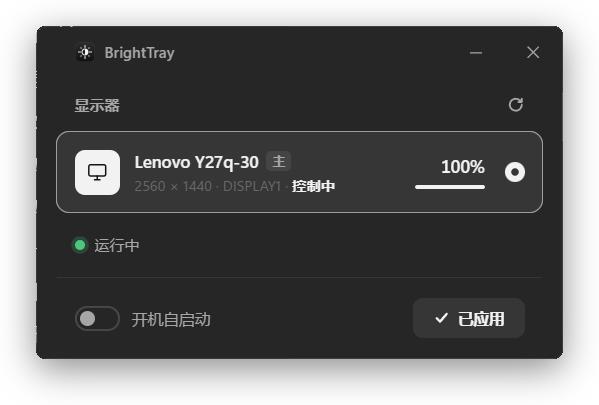
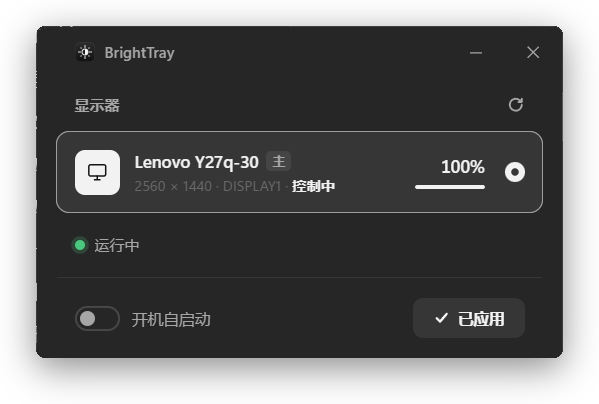
App: Chinese/English UI; English screenshots for the README
- i18n: the page, tray menu and error messages follow the Windows display
  language (Chinese for any Chinese locale, English otherwise);
  BRIGHTTRAY_LANG=zh|en overrides it
- docs/screenshots/en: English app capture, a language-neutral crop of the
  Quick Settings sliders (the tile labels are the OS's own language), and
  the matching app -> Quick Settings composite
- re-cut the Chinese app capture without the one stray row of desktop
  below the window

diff --git a/app/ui/index.html b/app/ui/index.html
@@ -1,5 +1,5 @@
 <!doctype html>
-<html lang="zh-CN">
+<html lang="{{LANG}}">
 <head>
 <meta charset="utf-8">
 <meta name="viewport" content="width=device-width, initial-scale=1">
@@ -201,18 +201,18 @@
 <body>
   <div class="titlebar">
     <div class="brand" id="drag">{{ICON}}<span>BrightTray</span></div>
-    <button class="win-btn" id="btn-min" title="最小化">
+    <button class="win-btn" id="btn-min" data-title="minimize">
       <svg viewBox="0 0 10 10"><path d="M0 5.5h10"/></svg>
     </button>
-    <button class="win-btn close" id="btn-close" title="关闭">
+    <button class="win-btn close" id="btn-close" data-title="close">
       <svg viewBox="0 0 10 10"><path d="M.5.5l9 9M9.5.5l-9 9"/></svg>
     </button>
   </div>
 
   <div id="app">
     <div class="head">
-      <h2>显示器</h2>
-      <button class="icon-btn" id="btn-refresh" title="刷新">
+      <h2 data-t="displays"></h2>
+      <button class="icon-btn" id="btn-refresh" data-title="refresh">
         <svg viewBox="0 0 16 16"><path d="M13.5 8a5.5 5.5 0 1 1-1.6-3.9M13.5 2.5v3h-3"/></svg>
       </button>
     </div>
@@ -228,15 +228,38 @@
     <div class="footer">
       <label class="opt">
         <input type="checkbox" class="toggle" id="opt-autostart">
-        <span>开机自启动</span>
+        <span data-t="autostart"></span>
       </label>
-      <button class="primary" id="btn-apply" disabled>应用</button>
+      <button class="primary" id="btn-apply" disabled></button>
     </div>
   </div>
 
 <script>
 (() => {
   const $ = (id) => document.getElementById(id);
+
+  const STRINGS = {
+    zh: {
+      displays: "显示器", autostart: "开机自启动", apply: "应用", applied: "已应用",
+      refresh: "刷新", minimize: "最小化", close: "关闭",
+      primary: "主", active: "控制中", noDdc: "不支持 DDC/CI", empty: "没有检测到显示器",
+      noDdcNotice: "该显示器未响应 DDC/CI，不会做任何修改。可在显示器菜单中开启 DDC/CI 后刷新。",
+      idle: "未启用", running: "运行中", waiting: "等待 ShellHost…", hooking: "正在挂接快速设置…",
+      restarting: "正在重启 ShellHost…", missing: "找不到 brighttray_hook.dll", starting: "启动中…",
+    },
+    en: {
+      displays: "Displays", autostart: "Start with Windows", apply: "Apply", applied: "Applied",
+      refresh: "Refresh", minimize: "Minimize", close: "Close",
+      primary: "Main", active: "Active", noDdc: "No DDC/CI", empty: "No displays found",
+      noDdcNotice: "This display doesn't respond to DDC/CI, so nothing will be changed. Turn on DDC/CI in the monitor's menu, then refresh.",
+      idle: "Not active", running: "Running", waiting: "Waiting for ShellHost…", hooking: "Hooking Quick Settings…",
+      restarting: "Restarting ShellHost…", missing: "brighttray_hook.dll not found", starting: "Starting…",
+    },
+  };
+  const T = STRINGS[document.documentElement.lang] || STRINGS.en;
+  document.querySelectorAll("[data-t]").forEach((el) => { el.textContent = T[el.dataset.t]; });
+  document.querySelectorAll("[data-title]").forEach((el) => { el.title = T[el.dataset.title]; });
+  $("btn-apply").textContent = T.apply;
   const send = (msg) => window.ipc.postMessage(msg);
   const esc = (s) => String(s).replace(/[&<>"']/g, (c) => ({ "&": "&amp;", "<": "&lt;", ">": "&gt;", '"': "&quot;", "'": "&#39;" }[c]));
 
@@ -252,15 +275,15 @@
   let lastHeight = 0;
 
   function statusOf(s) {
-    if (!s.applied) return { cls: "", text: "未启用" };
+    if (!s.applied) return { cls: "", text: T.idle };
     switch (s.hook.kind) {
-      case "hooked": return { cls: "on", text: "运行中" };
-      case "waiting": return { cls: "pending", text: "等待 ShellHost…" };
-      case "starting": return { cls: "pending", text: "正在挂接快速设置…" };
-      case "restarting": return { cls: "pending", text: "正在重启 ShellHost…" };
-      case "missing": return { cls: "err", text: "找不到 brighttray_hook.dll" };
+      case "hooked": return { cls: "on", text: T.running };
+      case "waiting": return { cls: "pending", text: T.waiting };
+      case "starting": return { cls: "pending", text: T.hooking };
+      case "restarting": return { cls: "pending", text: T.restarting };
+      case "missing": return { cls: "err", text: T.missing };
       case "error": return { cls: "err", text: s.hook.message };
-      default: return { cls: "pending", text: "启动中…" };
+      default: return { cls: "pending", text: T.starting };
     }
   }
 
@@ -290,18 +313,18 @@
     if (state.scanning && state.monitors.length === 0) {
       list.innerHTML = '<div class="skeleton"></div>';
     } else if (state.monitors.length === 0) {
-      list.innerHTML = '<div class="empty">没有检测到显示器</div>';
+      list.innerHTML = `<div class="empty">${T.empty}</div>`;
     } else {
       list.innerHTML = state.monitors.map((m) => {
         const cls = ["card", m.key === selected ? "selected" : "", m.ddc ? "" : "unsupported"].join(" ");
-        const live = m.key === state.applied ? ' · <span class="live">控制中</span>' : "";
+        const live = m.key === state.applied ? ` · <span class="live">${T.active}</span>` : "";
         const right = m.ddc
           ? `<div class="level"><div class="pct">${m.percent}%</div><div class="bar"><i style="width:${m.percent}%"></i></div></div>`
-          : '<span class="nosupport">不支持 DDC/CI</span>';
+          : `<span class="nosupport">${T.noDdc}</span>`;
         return `<button class="${cls}" data-key="${esc(m.key)}">
             <div class="glyph">${MONITOR}</div>
             <div class="info">
-              <div class="name"><span class="t">${esc(m.name)}</span>${m.primary ? '<span class="tag">主</span>' : ""}</div>
+              <div class="name"><span class="t">${esc(m.name)}</span>${m.primary ? `<span class="tag">${T.primary}</span>` : ""}</div>
               <div class="meta">${m.width} × ${m.height} · ${esc(m.device)}${live}</div>
             </div>
             ${right}
@@ -315,7 +338,7 @@
 
     let notice = null;
     if (state.error) notice = { kind: "err", text: state.error };
-    else if (mon && !mon.ddc) notice = { kind: "warn", text: "该显示器未响应 DDC/CI，不会做任何修改。可在显示器菜单中开启 DDC/CI 后刷新。" };
+    else if (mon && !mon.ddc) notice = { kind: "warn", text: T.noDdcNotice };
     const n = $("notice");
     n.className = "notice" + (notice ? " show k-" + notice.kind : "");
     if (notice) {
@@ -328,7 +351,7 @@
     const apply = $("btn-apply");
     apply.disabled = !mon || !mon.ddc || isApplied;
     apply.classList.toggle("done", isApplied);
-    apply.innerHTML = isApplied ? CHECK + "已应用" : "应用";
+    apply.innerHTML = isApplied ? CHECK + T.applied : T.apply;
 
     const st = statusOf(state);
     $("status").className = "status " + st.cls;

diff --git a/app/src/main.rs b/app/src/main.rs
@@ -5,6 +5,7 @@
 
 mod autostart;
 mod config;
+mod i18n;
 mod instance;
 
 use brighttray::ddc;
@@ -23,6 +24,7 @@ use tray_icon::{
 use wry::{WebView, WebViewBuilder};
 
 use config::Config;
+use i18n::tr;
 
 const ICON_RESOURCE: u16 = 1;
 /// Logical window width; the height follows the page content (see the `size` IPC message).
@@ -186,13 +188,25 @@ impl App {
     fn apply(&mut self, key: &str) {
         self.error = None;
         let Some(monitor) = self.monitors.iter().find(|m| m.key == key).cloned() else {
-            self.error = Some("这台显示器已断开，请刷新后重试。".into());
+            self.error = Some(
+                tr(
+                    "这台显示器已断开，请刷新后重试。",
+                    "This display is no longer connected. Refresh and try again.",
+                )
+                .into(),
+            );
             self.push_state();
             return;
         };
         // An unsupported monitor is never touched: no server, no hook, no saved choice.
         if !monitor.ddc() {
-            self.error = Some("这台显示器不支持 DDC/CI，未做任何修改。".into());
+            self.error = Some(
+                tr(
+                    "这台显示器不支持 DDC/CI，未做任何修改。",
+                    "This display doesn't support DDC/CI. Nothing was changed.",
+                )
+                .into(),
+            );
             self.push_state();
             return;
         }
@@ -207,10 +221,16 @@ impl App {
                 Ok(server) => self.server = Some(server),
                 Err(e) => {
                     self.error = Some(if e.kind() == std::io::ErrorKind::AddrInUse {
-                        "另一个 BrightTray（例如 brighttray-helper serve）正在运行，请先关闭它。"
-                            .into()
+                        tr(
+                            "另一个 BrightTray（例如 brighttray-helper serve）正在运行，请先关闭它。",
+                            "Another BrightTray (for example brighttray-helper serve) is already running. Close it first.",
+                        )
+                        .into()
                     } else {
-                        format!("无法启动服务：{e}")
+                        format!(
+                            "{}{e}",
+                            tr("无法启动服务：", "Couldn't start the service: ")
+                        )
                     });
                     self.push_state();
                     return;
@@ -356,7 +376,10 @@ fn main() {
 
     let ipc_proxy = proxy.clone();
     let webview = WebViewBuilder::new()
-        .with_html(UI.replace("{{ICON}}", ICON_SVG))
+        .with_html(
+            UI.replace("{{ICON}}", ICON_SVG)
+                .replace("{{LANG}}", i18n::lang().code()),
+        )
         .with_transparent(true)
         .with_devtools(cfg!(debug_assertions))
         .with_ipc_handler(move |request| {
@@ -366,8 +389,8 @@ fn main() {
         .expect("failed to create the WebView2 control");
 
     let menu = Menu::new();
-    let show_item = MenuItem::new("打开 BrightTray", true, None);
-    let quit_item = MenuItem::new("退出", true, None);
+    let show_item = MenuItem::new(tr("打开 BrightTray", "Open BrightTray"), true, None);
+    let quit_item = MenuItem::new(tr("退出", "Quit"), true, None);
     let _ = menu.append_items(&[&show_item, &PredefinedMenuItem::separator(), &quit_item]);
     let mut tray_builder = TrayIconBuilder::new()
         .with_tooltip("BrightTray")
@@ -473,8 +496,13 @@ fn main() {
                             None => {
                                 app.resume_pending = false;
                                 if app.config.monitor_key.is_some() {
-                                    app.error =
-                                        Some("上次应用的显示器当前不可用，请重新选择。".into());
+                                    app.error = Some(
+                                        tr(
+                                            "上次应用的显示器当前不可用，请重新选择。",
+                                            "The display you applied last time isn't available. Pick one again.",
+                                        )
+                                        .into(),
+                                    );
                                 }
                                 app.show();
                             }

diff --git a/app/src/autostart.rs b/app/src/autostart.rs
@@ -1,6 +1,8 @@
 //! "Start with Windows" through `HKCU\Software\Microsoft\Windows\CurrentVersion\Run`.
 
 use windows::core::{w, PCWSTR};
+
+use crate::i18n::tr;
 use windows::Win32::Foundation::ERROR_SUCCESS;
 use windows::Win32::System::Registry::{
     RegCloseKey, RegDeleteValueW, RegOpenKeyExW, RegQueryValueExW, RegSetValueExW, HKEY,
@@ -69,9 +71,15 @@ pub fn is_enabled() -> bool {
 }
 
 pub fn set_enabled(enabled: bool) -> Result<(), String> {
-    let key = open(true).ok_or("无法打开注册表启动项")?;
+    let key = open(true).ok_or(tr(
+        "无法打开注册表启动项",
+        "Couldn't open the startup registry key",
+    ))?;
     let status = if enabled {
-        let command = command().ok_or("无法获取程序路径")?;
+        let command = command().ok_or(tr(
+            "无法获取程序路径",
+            "Couldn't determine the program path",
+        ))?;
         let data: Vec<u16> = command.encode_utf16().chain(std::iter::once(0)).collect();
         let bytes =
             unsafe { std::slice::from_raw_parts(data.as_ptr() as *const u8, data.len() * 2) };
@@ -87,7 +95,14 @@ pub fn set_enabled(enabled: bool) -> Result<(), String> {
     if status == ERROR_SUCCESS {
         Ok(())
     } else {
-        Err(format!("写入注册表失败（错误 {}）", status.0))
+        Err(format!(
+            "{} {}",
+            tr(
+                "写入注册表失败，错误",
+                "Couldn't write to the registry, error"
+            ),
+            status.0
+        ))
     }
 }
 

diff --git a/app/src/i18n.rs b/app/src/i18n.rs
@@ -1,0 +1,53 @@
+//! Chinese / English UI text. The language follows the Windows display language (Chinese for
+//! any Chinese locale, English otherwise) and can be forced with `BRIGHTTRAY_LANG=zh|en`.
+
+use std::sync::OnceLock;
+
+#[derive(Debug, Clone, Copy, PartialEq, Eq)]
+pub enum Lang {
+    Zh,
+    En,
+}
+
+impl Lang {
+    /// The code the page expects (`<html lang>` and its string table).
+    pub fn code(self) -> &'static str {
+        match self {
+            Lang::Zh => "zh",
+            Lang::En => "en",
+        }
+    }
+}
+
+fn detect() -> Lang {
+    if let Ok(forced) = std::env::var("BRIGHTTRAY_LANG") {
+        let forced = forced.to_ascii_lowercase();
+        if forced.starts_with("zh") {
+            return Lang::Zh;
+        }
+        if forced.starts_with("en") {
+            return Lang::En;
+        }
+    }
+    // LANG_CHINESE is primary language 0x04 for every Chinese locale.
+    const LANG_CHINESE: u16 = 0x04;
+    let id = unsafe { windows::Win32::Globalization::GetUserDefaultUILanguage() };
+    if id & 0x3ff == LANG_CHINESE {
+        Lang::Zh
+    } else {
+        Lang::En
+    }
+}
+
+pub fn lang() -> Lang {
+    static LANG: OnceLock<Lang> = OnceLock::new();
+    *LANG.get_or_init(detect)
+}
+
+/// Picks the Chinese or English text for the current language.
+pub fn tr(zh: &'static str, en: &'static str) -> &'static str {
+    match lang() {
+        Lang::Zh => zh,
+        Lang::En => en,
+    }
+}

diff --git a/README.md b/README.md
@@ -101,7 +101,7 @@ brighttray_hook.dll     # 注入 ShellHost.exe 的 hook
 - **开机自启动**：写入当前用户的 `Run` 启动项。登录后直接在托盘中运行，并自动控制上次应用的显示器。
 - **托盘常驻**：关闭窗口只会收起到托盘，服务继续工作。单击托盘图标重新打开，在托盘菜单中选择"退出"才会真正退出。
 
-设置保存在 `%APPDATA%\BrightTray\config.ini`。程序只允许运行一个实例，再次启动会把已有窗口调到前台。
+设置保存在 `%APPDATA%\BrightTray\config.ini`。程序只允许运行一个实例，再次启动会把已有窗口调到前台。界面语言跟随 Windows 显示语言（中文 / 英文），也可以用环境变量 `BRIGHTTRAY_LANG=en` 或 `zh` 指定。
 
 > [!NOTE]
 > 桌面应用依赖 WebView2 运行时，Windows 11 已自带。
